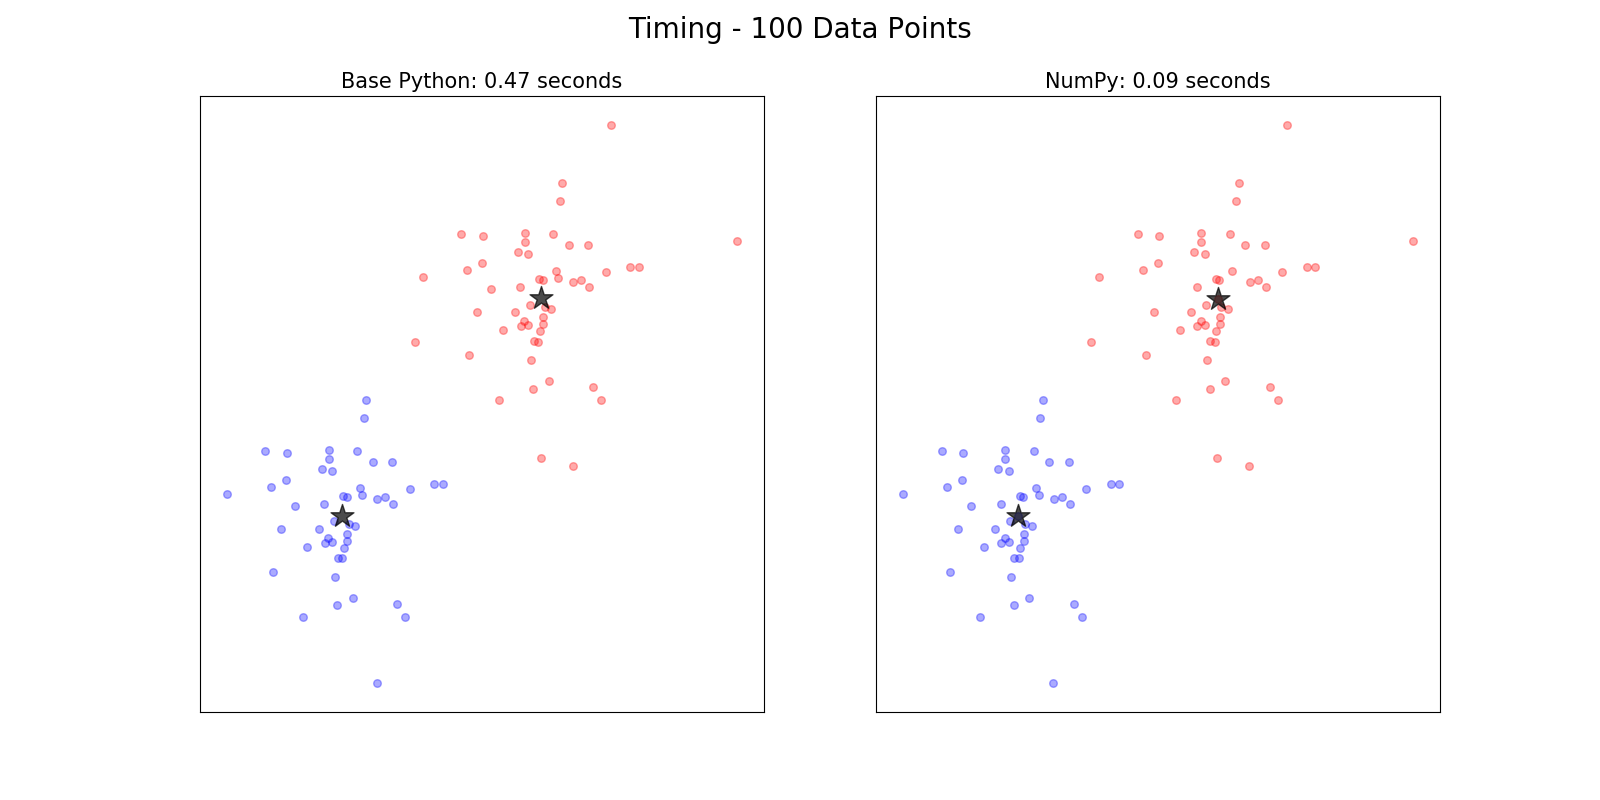
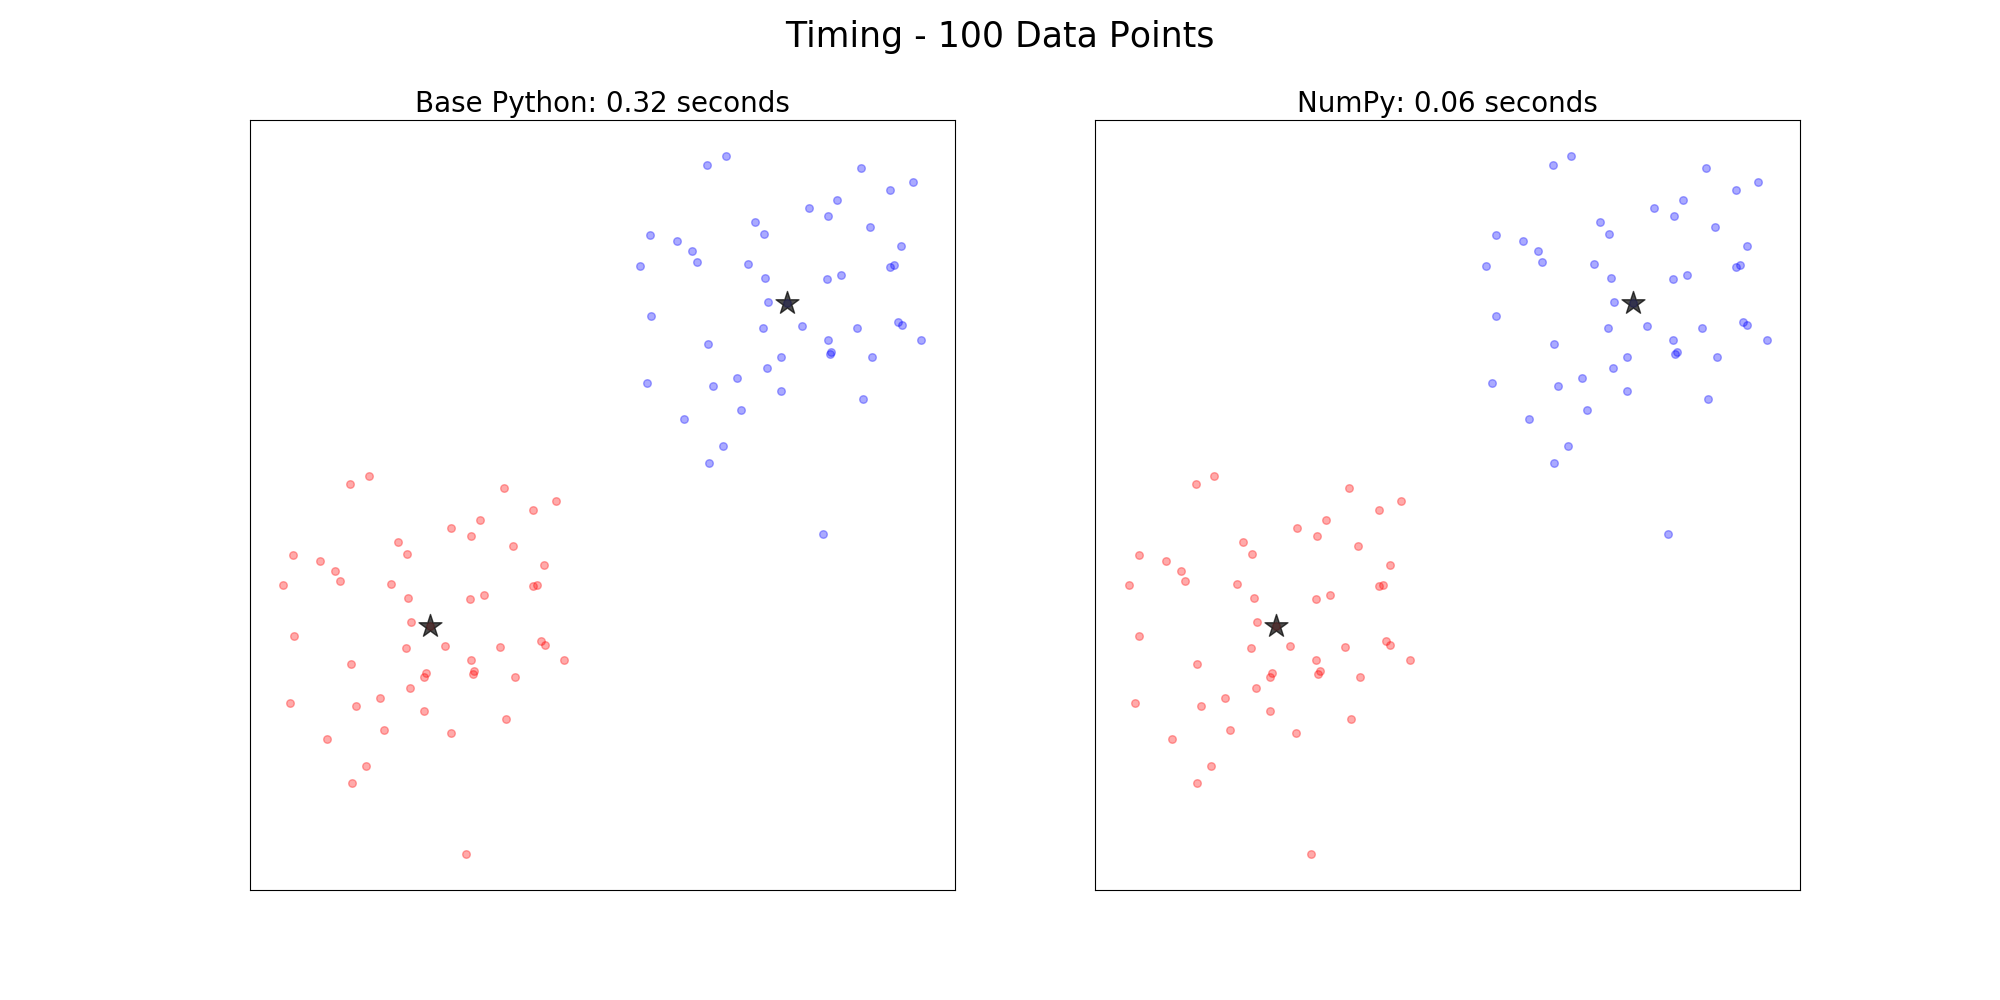
Make numeric python post conform with code inclusion standards

diff --git a/code/numeric_python_intro/make_blog_images.py b/code/numeric_python_intro/make_blog_images.py
@@ -1,0 +1,146 @@
+from time import time
+import kmeans
+import matplotlib.pyplot as plt
+import numpy as np
+
+
+SAVE_PATH = 'content/images/numeric_python_intro/{}.png'
+
+
+def make_blobs(n_points):
+    """Convenience function to create data in two clusters, one around
+    (0.5, 0,5) and the other (-0.5, -0.5).
+
+    Parameters
+    ----------
+    n_points : int, total number of data points in both clusters
+
+    Returns
+    -------
+    ndarray, 2D
+    """
+    points = np.array([[0.5, 0.5], [-0.5, -0.5]])
+    noise = np.random.normal(0, .25, size=(int(n_points/2), 2))
+    noised_points = points[:, None] + noise
+    return noised_points.reshape(-1, 2)
+
+
+def remove_ticks(ax):
+    """Helper function to remove the ticks from both axes.
+
+    Parameters
+    ----------
+    ax : matplotlib Axis object
+    """
+    ax.set_xticklabels([])
+    ax.set_yticklabels([])
+    ax.set_xticks([])
+    ax.set_yticks([])
+
+
+def plot_setup(centroids, assignments, ax, title=None, legend=False):
+    """Convenience function to plot clusters and centroids.
+
+    Parameters
+    ----------
+    centroids : list-like 2D
+    assignments : list of list-like
+    ax : matplotlib axis object
+    title : str, to put on ax
+    legend : bool, plot legend
+    """
+    for centroid, assigns, color in zip(centroids, assignments, 'br'):
+        size_alpha = 1 / (np.log2(len(assignments)) + 2)
+        ax.scatter(*zip(*assigns), c=color, alpha=size_alpha, s=30, label='blob')
+        ax.scatter(*centroid, c='k', marker='*', alpha=0.7, s=300, label='center')
+    remove_ticks(ax)
+    if title:
+        ax.set_title(title, fontsize=20)
+    if legend:
+        leg = plt.legend(loc=2, fontsize=15)
+        leg.get_frame().set_alpha(0)
+
+
+def plot_single(X, km, title, file_name, legend=False):
+    """Cluster and plot results for single algorithm.
+
+    Parameters
+    ----------
+    X : list-like 2D
+    km : function, kmeans clustering function
+    title : str, for plot
+    file_name : str, name to file to save to, not includeing rest of path
+                     or file extension
+    legend : bool, plot legend
+    """
+    fig, ax = plt.subplots(figsize=(10, 10))
+    centroids, assignments = km(X, k=2)
+    plot_setup(centroids, assignments, ax, legend=legend)
+    fig.suptitle(title, fontsize=25)
+    remove_ticks(ax)
+    plt.savefig(SAVE_PATH.format(file_name), transparent=True)
+
+
+def plot_cluster_comp(X, file_name):
+    """Plots the results of both clustering implementations side-by-side
+    with the timing for the implementations above the clustering results.
+    
+    Parameters
+    ----------
+    X : list-like 2D
+    file_name : str, name to file to save to, not includeing rest of path
+                     or file extension
+    """
+    fig, ax_lst = plt.subplots(1, 2, figsize=(20, 10))
+    params = zip(ax_lst, (X.tolist(), X), ('Base Python', 'NumPy'),
+                                (kmeans.base_python, kmeans.numpy))
+    for ax, data, algo, km in params:
+        start_time = time()
+        centroids, assignments = km(data, k=2)
+        total_time = time() - start_time
+        timed_title = '{}: {:.2f} seconds'.format(algo, total_time)
+        plot_setup(centroids, assignments, ax, timed_title)
+        remove_ticks(ax)
+    fig.suptitle('Timing - {} Data Points'.format(X.shape[0]), fontsize=25)
+    plt.savefig(SAVE_PATH.format(file_name), transparent=True)
+
+
+def plot_timing_comp(file_name, data_sizes=(10, 100, 1000, 2500, 5000)):
+    """Plots the time taken to cluster on given data over some data sizes.
+    
+    Parameters
+    ----------
+    file_name : str, name to file to save to, not includeing rest of path
+                     or file extension
+    data_sizes : tuple, ints
+    """
+    fig, ax = plt.subplots(figsize=(10, 10))
+    times = ([], [])
+    kms = (kmeans.base_python, kmeans.numpy)
+    for num_points in data_sizes:
+        X = make_blobs(num_points)
+        for data, km, km_time in zip((X.tolist(), X), kms, times):
+            start_time = time()
+            km(data, k=2)
+            km_time.append(time() - start_time)
+
+    ax.plot(data_sizes, times[0], c='r', label='Base')
+    ax.plot(data_sizes, times[1], c='b', label='NumPy')
+    ax.set_xlabel('Number of Points to Cluster', fontsize=20)
+    ax.set_ylabel('Time to Cluster - Seconds', fontsize=20)
+    leg = ax.legend(loc='best', fontsize=15)
+    leg.get_frame().set_alpha(0)
+    fig.suptitle('Time Scaling for 1000 Iterations', fontsize=25)
+    plt.savefig(SAVE_PATH.format(file_name), transparent=True)
+
+
+if __name__ == '__main__':
+    X100 = make_blobs(100)
+    X1000 = make_blobs(1000)
+    X10000 = make_blobs(10000)
+    plot_single(X100, kmeans.numpy, 'Example k-means',
+                'example_clustering', legend=True)
+    plot_cluster_comp(X100, 'comparison_100')
+    plot_cluster_comp(X1000, 'comparison_1000')
+    plot_cluster_comp(X10000, 'comparison_10000')
+    plot_timing_comp('kmeans_time_comp')

diff --git a/content/posts/numeric_python_intro.md b/content/posts/numeric_python_intro.md
@@ -5,7 +5,7 @@ published: July 21, 2017
 
 This post is a tutorial style introduction to discovering numeric performance optimizations in the Python programming language. It assumes only a cursory knowledge of Python and a tolerance for pinches of math.
 
-The source code for everything in this tutorial can be found [here](https://github.com/Ultramann/Numeric-Python-Intro). Requisite Python libraries to run the included code are: `scipy`, `numpy`, and `matplotlib`.
+The source code for everything in this tutorial can be found [here](https://github.com/Ultramann/Numeric-Python-Intro). The code in the repository linked above depend on: `scipy`, `numpy`, and `matplotlib`.
 
 <!--more-->
 
@@ -21,7 +21,7 @@ The source code for everything in this tutorial can be found [here](https://gith
         1. [Base Python](#base-python)
         2. [NumPy Accelerated](#numpy-accelerated)
         3. [Comparison](#comparison)
-3. [Just the Beginning](#just-the-beginning)
+3. [Conclusion](#conclusion)
 
 # NumPy
 
@@ -44,7 +44,7 @@ As this repository intends simply to introduce NumPy we will be focusing on the 
 
 So we have some intuition for one of the reasons using NumPy might give us faster code let's discuss type systems for a moment.
 
-Python is colloquially referred to a duck typed language, deriving from thr phrase now known as the duck test, "If it looks like a duck, swims like a duck, and quacks like a duck, then it probably is a duck." You might be wondering, how in the world is this saying applicable to programming, aka, what's all this quack about?
+Python is colloquially referred to a duck typed language, deriving from the phrase now known as the duck test, "If it looks like a duck, swims like a duck, and quacks like a duck, then it probably is a duck." You might be wondering, how in the world is this saying applicable to programming, aka, what's all this quack about?
 
 In Python, since it's an interpreted language, when you type the command `4 + 5` it doesn't __*know*__ what 4 and 5 are so it has to go check to see if you can add them together. As it turns out, you can, so Python will return `9` of type integer since that was the type of the two numbers we started with.
 
@@ -161,7 +161,7 @@ The first part makes an empty list of lists. Corresponding by index, each of the
 
 The second part initializes variables `closest_dist` and `closest_centroid` to be updated by the inner loop discussed in part three. Once the inner loop is complete and the closest centroid discovered for a data point, that data point is appended to the list in `centroid_assignments` corresponding to it's `closest_centroid` index.
 
-The third part loops over all of the centroids updating the closest one if the current centroids distance is less than the closest centroid it's seen so far. To calculate distance it uses the function `list_euclidean_dist`. Here is its code:
+The third part loops over all of the centroids updating the closest one if the distance to the current centroid  is less than the closest centroid it's seen so far. To calculate distance it uses the function `list_euclidean_dist`. It has fairly simple code.
 
 ```python
 def list_euclidean_dist(a, b):
@@ -187,7 +187,7 @@ This function which takes the output of `get_new_assignments`, a list of lists o
 2. initialize a new list to hold the values of a single new centroid,
 3. a nested loop over the dimensions of the data points, finding the average value for each.
 
-Parts 1 and 2 are pretty self-explanatory; part 3, though has some slightly shifty things going on. Much of this shiftiness happens in the `for dim in zip(*centroid_assignment)`. In case you haven't encountered it before, the `*` before an iterable "unpacks" it. What this means is that all the lists, here data points, in `centroid_assignment` are pulled apart; when they are immediately zipped back together all of the first elements of the original lists are grouped together, then the second ones, etc.
+Parts 1 and 2 are pretty self-explanatory; part 3, though has some slightly shifty things going on. Much of this shiftiness happens in the `for dim in zip(*centroid_assignment)`. In case you haven't encountered it before, the `*` before a list or tuple "unpacks" it. What this means is that all the lists, here data points, in `centroid_assignment` are pulled apart; when they are immediately zipped back together all of the first elements of the original lists are grouped together, then the second ones, etc.
 
 Let's look at a toy example so we can "see" what's going on:
 
@@ -300,13 +300,13 @@ It's high time to inspect that promise made by the title of the repository; to c
 
 <div class="mpl" style="text-align: center"><img src="/images/numeric_python_intro/comparison_100.png" style="width: 900px"></div>
 
-We can see that running the base Python version took about half of a second, whereas the NumPy version finished in a tenth of a second. **Note:** These times are for the 1000 updates on 100 data points that the script generates by default and on a 2013 MacBook Pro with a 2.6 GHz i5 processor.
+We can see that running the base Python version took about a third of a second, whereas the NumPy version finished in under a tenth of a second. **Note:** These times are for the 1000 updates on 100 data points that the script generates by default on an Intel Xeon 2.40GHz processor.
 
-This difference of approximately 0.4 seconds might not seem bad, but consider that this means the base version is about 5 times slower. Further, we need to remember that this example only uses 100 data points. The real power will become apparent when we scale to a more realistic number. To test this, we can use the demo script's "count" flag and pass it a number after. The plot below was produced with the command `python demo.py --count 1000`.
+This difference of approximately 0.3 seconds might not seem bad, but consider that this means the base version is about 5 times slower. Further, we need to remember that this example only uses 100 data points. The real power will become apparent when we scale to a more realistic number. To test this, we can use the demo script's "count" flag and pass it a number after. The plot below was produced with the command `python demo.py --count 1000`.
 
 <div class="mpl" style="text-align: center"><img src="/images/numeric_python_intro/comparison_1000.png" style="width: 900px"></div>
 
-Here we see that the runtime of the base Python version has grown linearly, 10 times more data points taking ten times as long, whereas the NumPy version is only taking 50% longer. In addition, at this point the NumPy version is running about 20 times faster than the base version. That's what I call a performance increase! Last example for dramatic purposes. 10000 points, which is finally getting closer to the size of data we might want to analyze. I'll let you be the judge.
+Here we see that the runtime of the base Python version has grown linearly, 10 times more data points taking ten times as long, whereas the NumPy version is only taking 50% longer. In addition, at this point the NumPy version is running about 25 times faster than the base version. That's what I call a performance difference! Last example for dramatic purposes. 10000 points, which is finally getting closer to the size of data we might want to analyze. I'll let you be the judge.
 
 <div class="mpl" style="text-align: center"><img src="/images/numeric_python_intro/comparison_10000.png" style="width: 900px"></div>
 
@@ -314,7 +314,7 @@ For the final comparison of NumPy vs base Python implementations, below we can s
 
 <div class="mpl" style="text-align: center"><img src="/images/numeric_python_intro/kmeans_time_comp.png" style="width: 450px"></div>
 
-# Just the Beginning
+# Conclusion
 
 This tutorial covered some introductory level NumPy ideas, primarily arrays and broadcasting. We learned that we can get around some of the time penalties we pay for duck typing by using an array, which, by definition are homogeneous. In addition, the method that always for speedy processing of the data in these arrays is a process called broadcasting.
 
